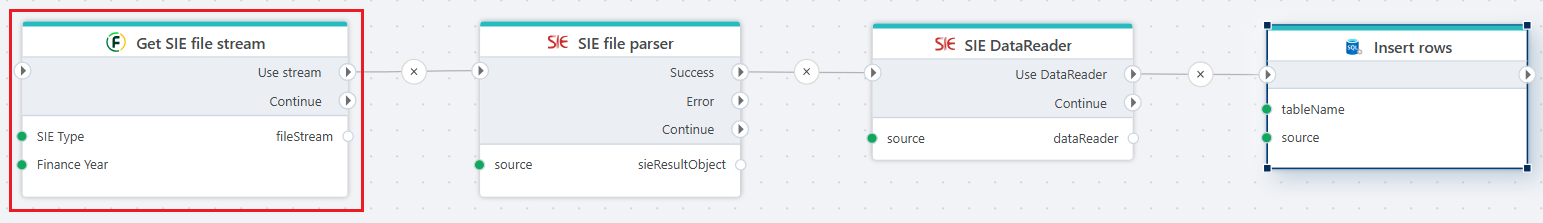
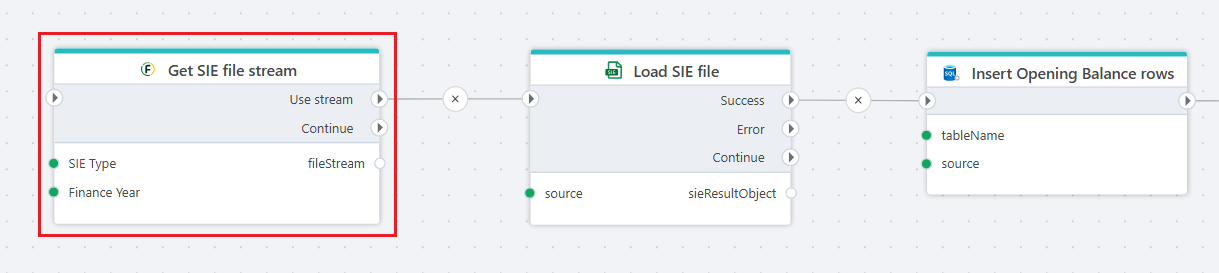
update sie action - remove reader and update samples and result doc

diff --git a/articles/flow/actions/sie/load-file.md b/articles/flow/actions/sie/load-file.md
@@ -1,0 +1,111 @@
+# Load SIE file
+
+This action loads and parses a [Standard Import Export (SIE)](https://sie.se/in-english/) file and returns an object with information and DataReaders that can be used by other actions. 
+Use this action to extract opening/closing balances, transactions, vouchers etc. from a SIE file.
+
+The Swedish SIE (Standard Import and Export) file format is an open, text-based standard for transferring accounting data between different software systems in Sweden, acting as a de facto standard for companies, accountants, and auditors to exchange financial information like balances, transactions, and account details, with different types (SIE 1, 2, 3, 4) for varying data levels.
+
+
+![img](/images/flow/sie-file-parser.png)
+
+<br/>
+
+**Example** ![img](/images/strz.jpg)
+
+The example above shows how a SIE file is read from the [Fortnox REST API](../fortnox/get-sie-file-stream.md), and parsed with the **Load SIE file**. One of the DataReaders in the SIE result object is then used to [insert data into an SQL Server table](../sql-server/insert-data.md).
+
+<br/>
+
+## Properties
+
+| Name            | Type     | Description          |
+|-----------------|----------|----------------------|
+| Title           | Optional | The title or name of the action.  |
+| Source          | Required | A stream or byte array containing SIE file content. |
+| Parser options  | Optional | Optional settings about source file and parsing settings (see below). | 
+| Result variable name | Required | The name of the variable that contains the output from this action. | 
+| Description     | Optional | Additional notes or comments about the action. |
+
+<br/>
+
+### Parser options
+
+| Name            | Description          |
+|-----------------|----------------------|
+| Date Format | Enter the source date format (default: yyyyMMdd). |
+| Encoding | Select the source encoding format (default: ISO-8859-1). |
+| Max flatten depth | The maximum number of nested object levels to flatten into columns. |
+| Allow Missing Date | Allows missing dates in e.g. transactions. |
+| Allow Unbalanced Voucher | Allows incomplete / unbalanced vouchers. | 
+| Throw Errors | Specifies whether parsing should throw errors or complete silently. |
+
+<br/>
+
+## Result 
+
+This action returns an **SIEResultObject**. 
+
+<br/>
+
+### Object properties
+
+| Property | Type | Description |
+|----------|------|-------------|
+| Properties     | Object      | A sub object with properties about the SIE content - see below for detasils. | 
+| OpeningBalance | IDataReader | Opening balance for balance sheet account. |
+| ClosingBalance | IDataReader | Closing balance for balance sheet account. |
+| OpeningBalanceForObject | IDataReader |  Opening balance for object. | 
+| ClosingBalanceForObject | IDataReader | Closing balance for object. |
+| PeriodBudget   | IDataReader |  Budget for account for the period. |
+| PeriodBalance  | IDataReader | Period saldo for account for the period. |
+| ProfitLossBalance | IDataReader | Profit/loss account balance for the period. |
+| Transactions   | IDataReader | Transaction items. |
+| FinancialYears | IDataReader | Financial year from which the exported data is retrieved. |
+| Accounts       | IDataReader | Account information. |
+| Dimensions     | IDataReader | Dimensions. |
+| SubDimensions  | IDataReader | Sub-dimensions. |
+| Vouchers       | IDataReader | Voucher information. |
+| Company        | IDataReader | Company the data originates from. |
+| Data           | Object      | A sub object with (raw) collections and objects from parser - see below for details. |
+
+<br/>
+
+### Properties object
+
+| Property | SIE tag | Type | Description |
+|----------|---------|------|-------------|
+| Format | #FORMAT | string | SIE file format version. | 
+| GeneratedDate | #GEN | DateTime | Date when the SIE file was generated. |
+| GeneratedName | #GEN | string | Name of the user who generated the SIE file (signature). |
+| Description | #PROSA | string |  Description of the SIE file content. |
+| ChartOfAccountType | #KPTYP | string | Type of chart of accounts. |
+| PeriodToDate | #OMFATTN | DateTime | Date for period of period end balance  (date up to and including). |
+| TaxationYear | #TAXAR | Integer | Tax year for the exported data. |
+| Currency | #VALUTA | string | Currency code for the exported data. |
+
+<br/>
+
+### Data object
+
+| Collection | SIE tag | Of type | Description |
+|------------|---------|---------|-------------|
+| OpeningBalanceList | #IB | SiePeriodValue | Opening balance for balance sheet account. |
+| ClosingBalanceList | #UB | SiePeriodValue |  Closing balance for balance sheet account. |
+| OpeningBalanceForObjectList | #OIB | SiePeriodValue |  Opening balance for object. | 
+| ClosingBalanceForObjectList | #OUB | SiePeriodValue | Closing balance for object. |
+| PeriodBudgetList | #BUDGET | SiePeriodValue |  Budget for account for the period. |
+| PeriodBalanceList | #PSALDO | SiePeriodValue | Period saldo for account for the period. |
+| ProfitLossBalanceList | #RES | SiePeriodValue | Profit/loss account balance for the period. |
+| TransactionsList | #TRANS | SiePeriodValue | Transaction items. |
+| FinancialYearsList | #RAR | SieBookingYear | Financial year from which the exported data is retrieved. |
+| AccountsList | #KONTO | SieAccount | Account information. |
+| DimensionsList | #DIM | SieDimension | Dimensions. |
+| SubDimensionsList | #UNDERDIM | SieDimension | Sub-dimensions. |
+| VouchersList | #VER | SieVoucher | Voucher information. |
+
+<br/>
+
+| Object | SIE tag | Of type | Description |
+|--------|---------|---------|-------------|
+| Company | #FNAMN | SieCompany | Company the data originates from. | 
+

diff --git a/articles/flow/actions/fortnox/get-sie-file-stream.md b/articles/flow/actions/fortnox/get-sie-file-stream.md
@@ -12,7 +12,7 @@ The Swedish **SIE (Standard Import and Export)** file format is an open, text-ba
 
 **Example** ![img](/images/strz.jpg)
 
-The example above shows how a SIE file is read from Fortnox and parsed with the [SIE file parser](../sie/file-parser.md). From the parsed result object, an [SIE DataReader](../sie/datareader.md) is used to get values to be [inserted into an SQL Server table](../sql-server/insert-data.md).
+The example above shows how a SIE file is read from Fortnox and parsed with the [Load SIE file](../sie/load-file.md). From the parsed result object's, one of the available DataReaders is  used to [insert data into an SQL Server table](../sql-server/insert-data.md).
 
 <br/>
 
